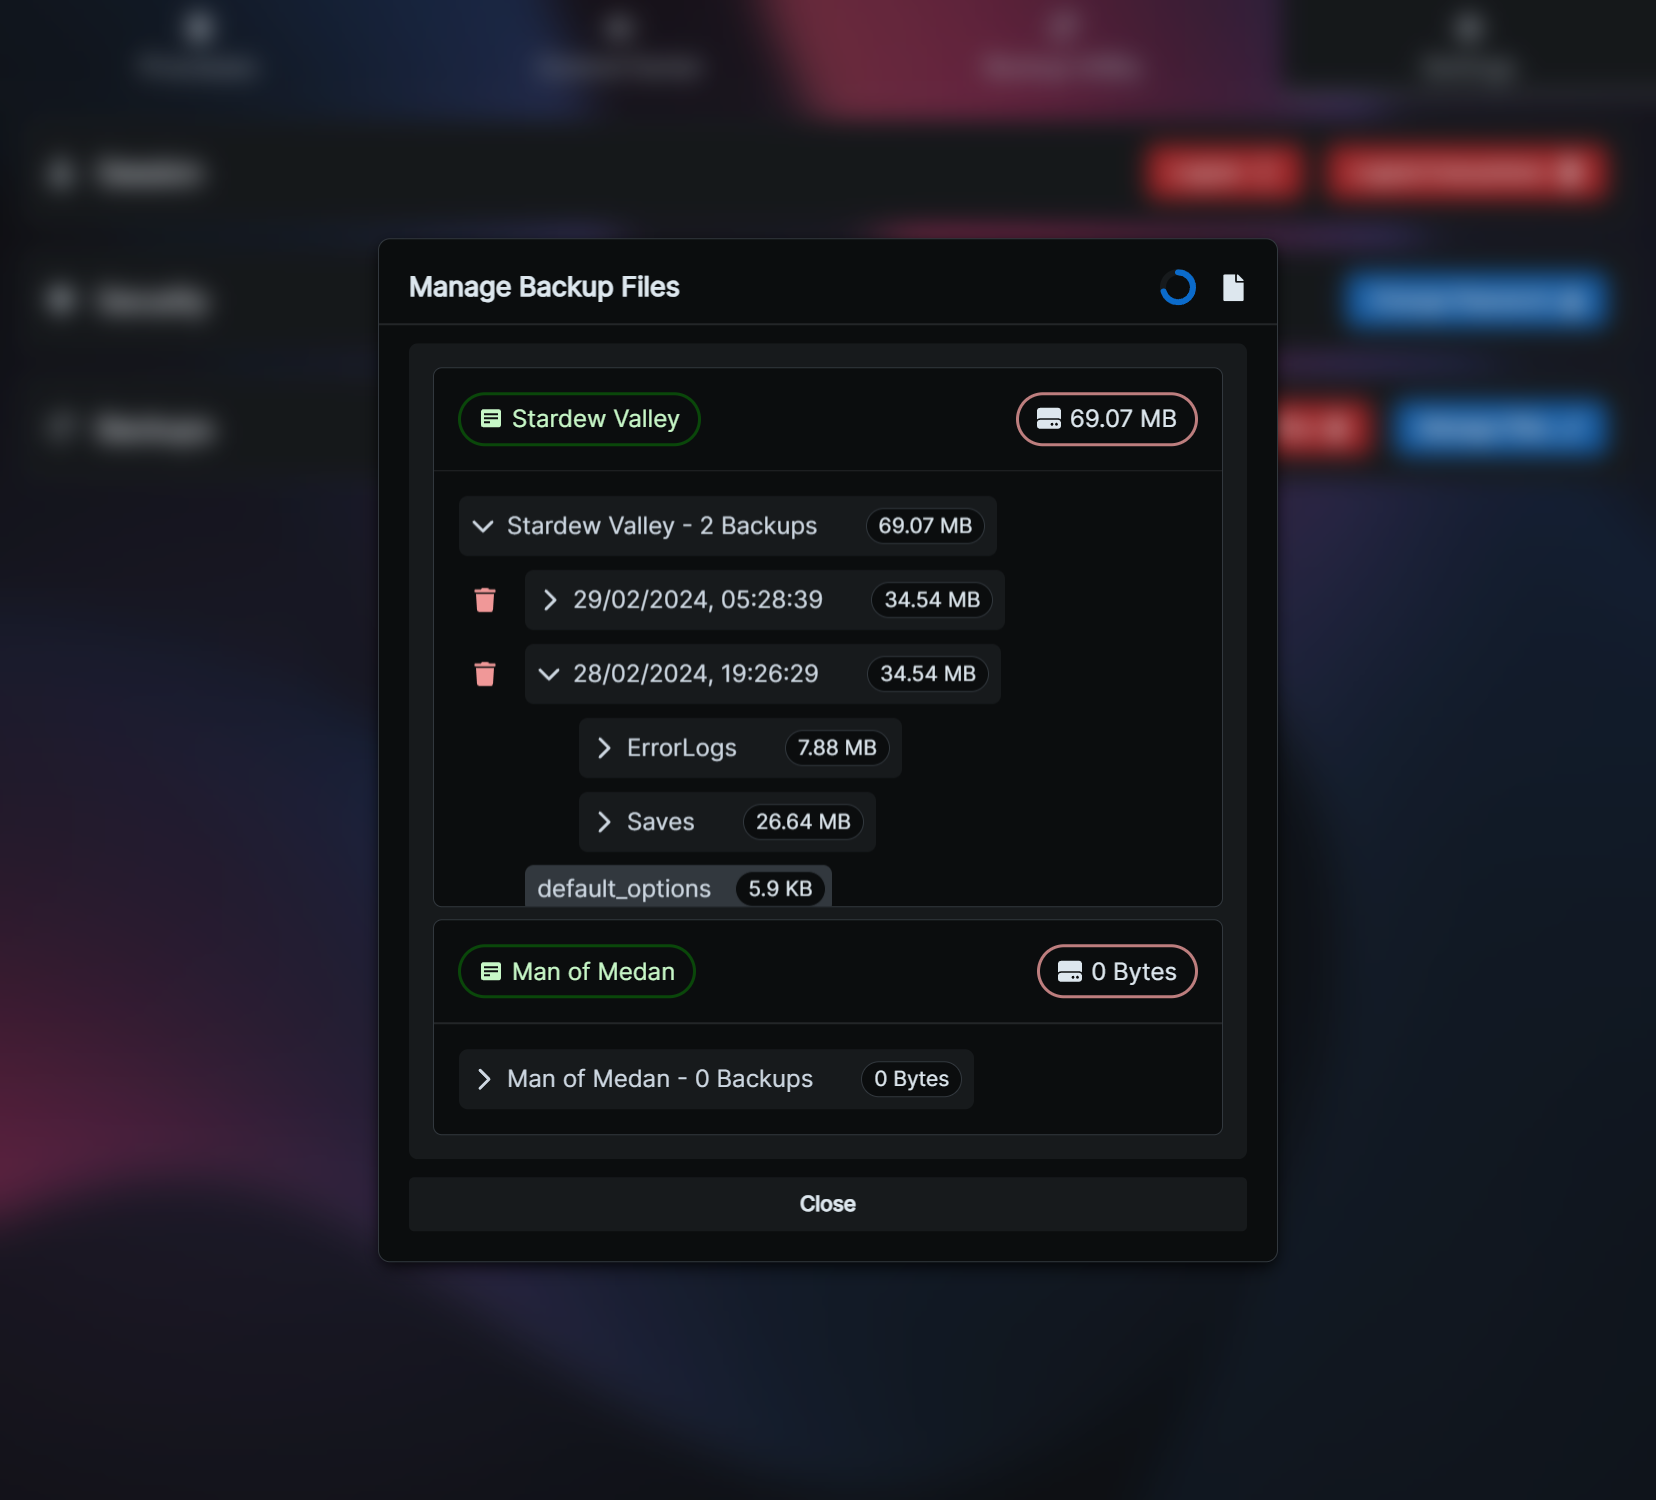
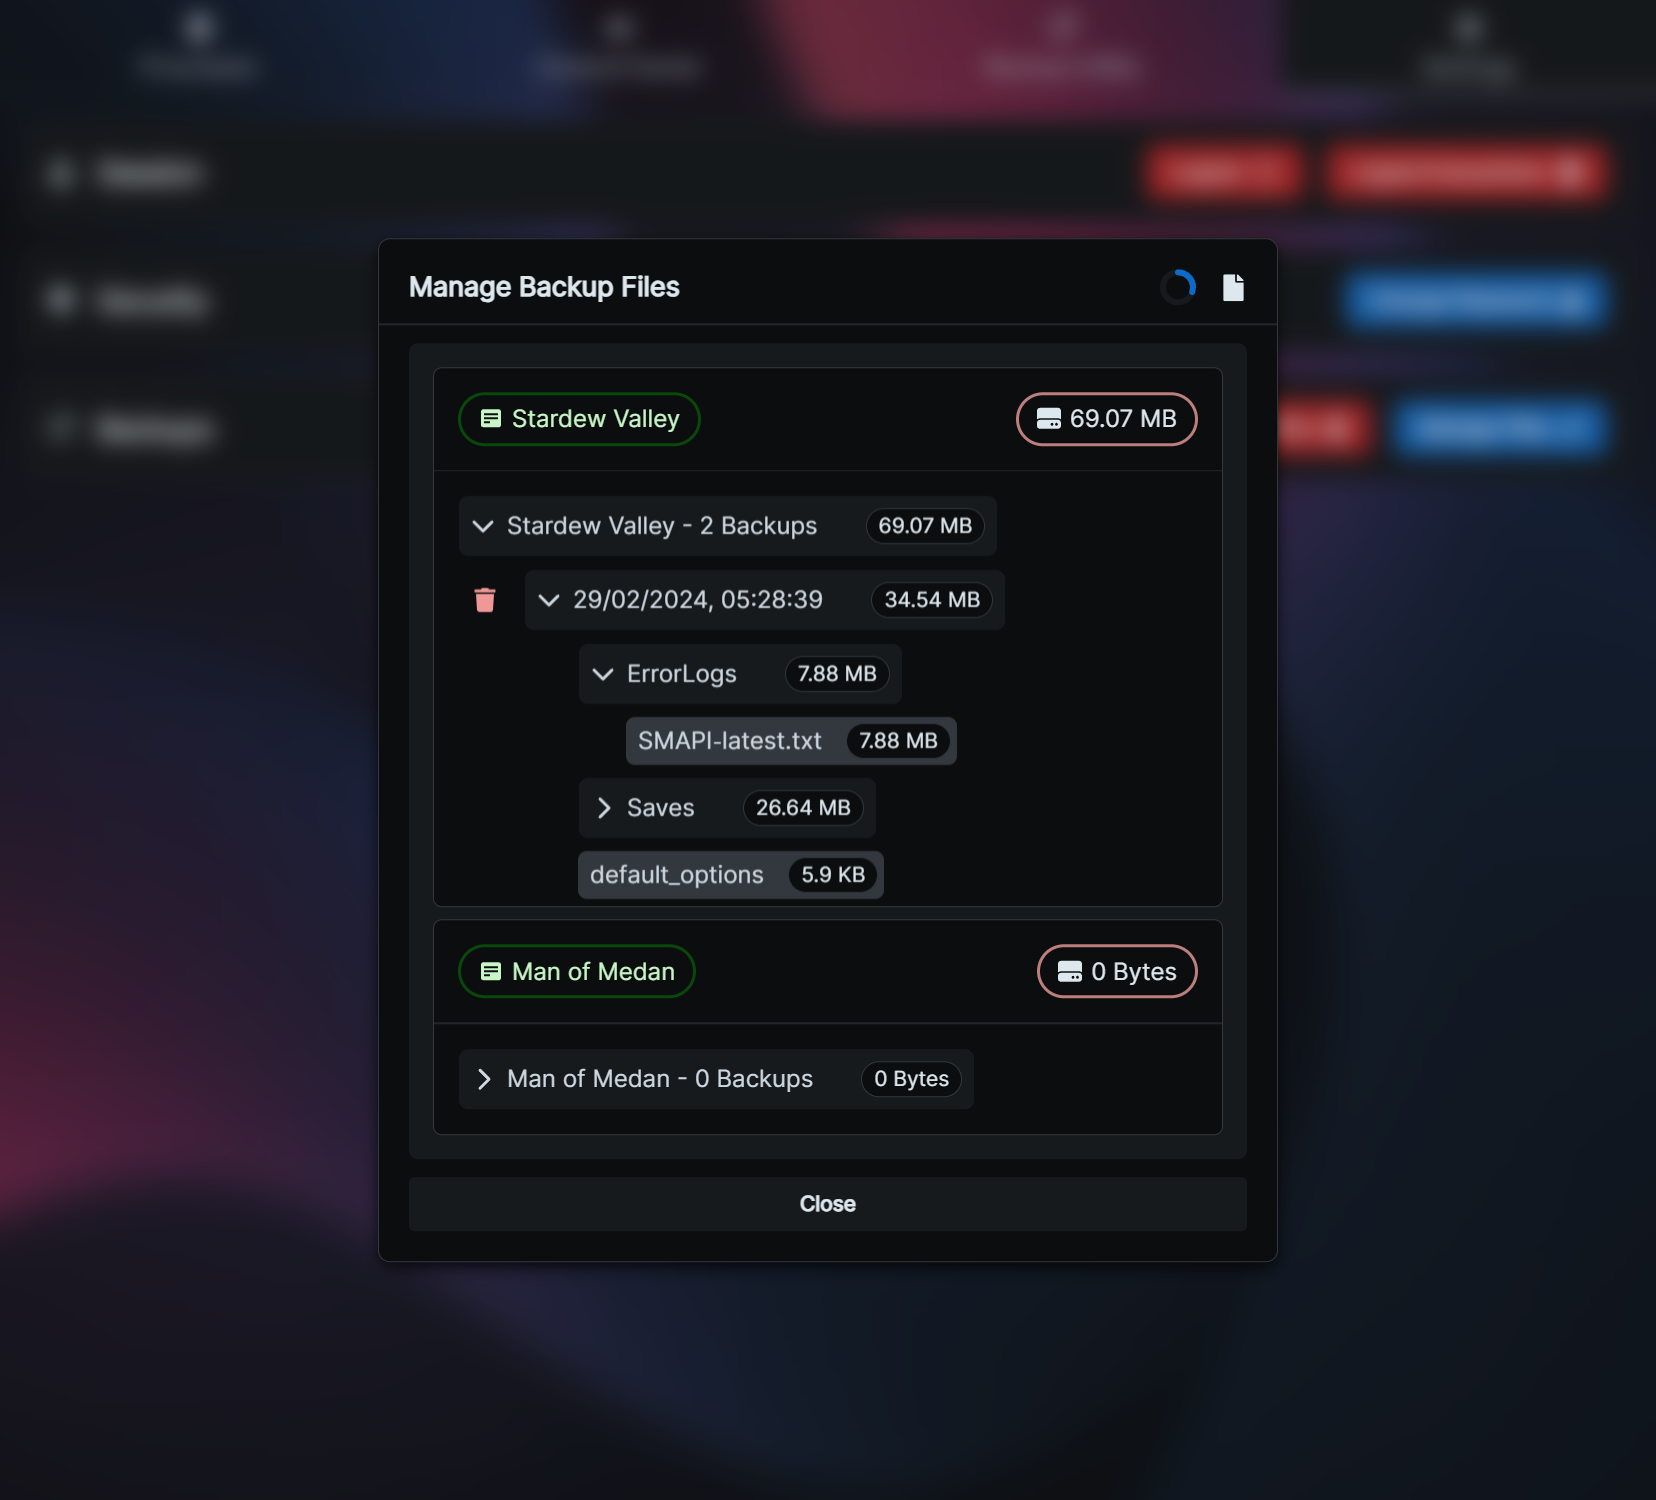
Fixed file manager indentation.

Changed region(s): [[0.308, 0.4293, 0.5851, 0.6133], [0.2772, 0.4293, 0.308, 0.46]]

diff --git a/app/src/components/backup-utility/BackupFilesModal.tsx b/app/src/components/backup-utility/BackupFilesModal.tsx
@@ -125,7 +125,7 @@ export function BackupFilesModal({
   };
 
   const getFileIndentation = (layer: number) => {
-    if (layer === 1) return 5.6;
+    if (layer === 1) return 10;
     return 4;
   };
 
